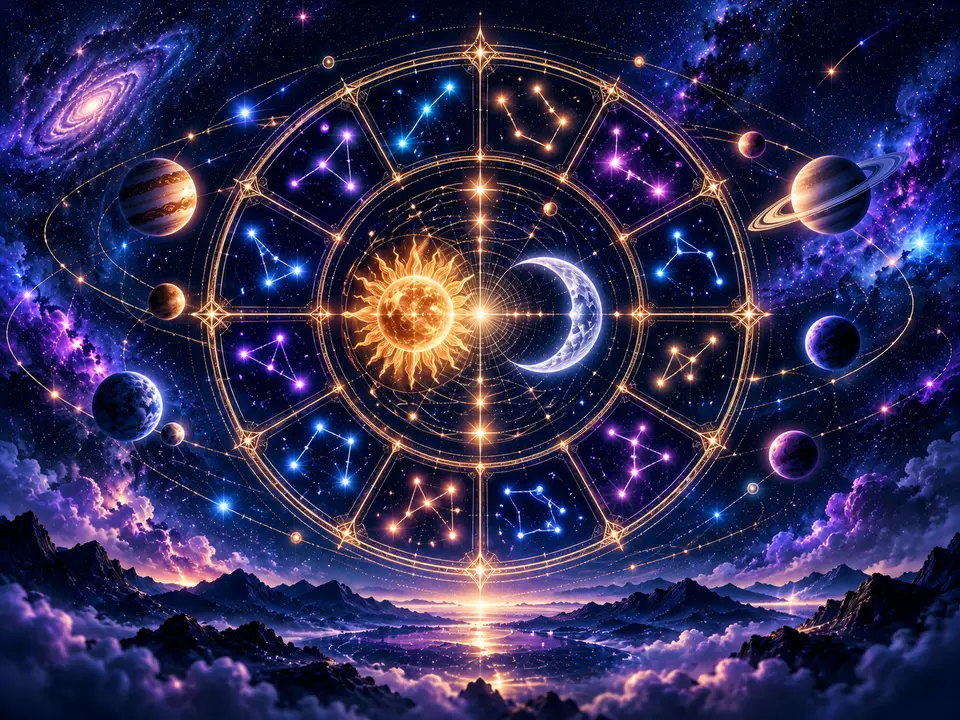
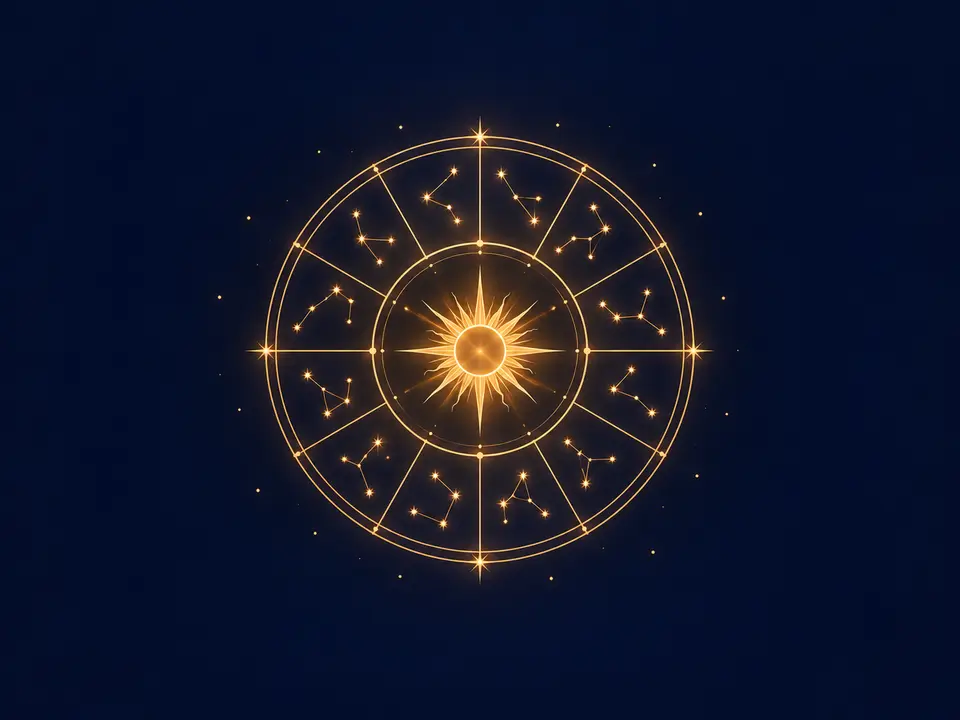
การ์ดศาสตร์: เปลี่ยนเป็นภาพลายเส้นทองชุดเดียวกันทั้ง 8 ศาสตร์
ภาพชุดเดิมรายละเอียดเต็มเฟรมทุกใบ พอวางรวมกันในหน้าแรกจึงดูรก
ชุดใหม่ใช้ลายเส้นทองบนพื้นน้ำเงินเข้มเหมือนกัน ต่างกันแค่แสงสีประจำศาสตร์
แบนเนอร์หน้าศาสตร์บนจอกว้างวางภาพไว้ครึ่งขวาแล้วเฟดขอบ เพื่อไม่ให้ครอปวัตถุหลัก

Claude-Session: https://claude.ai/code/session_012VN3BbfxEtvu5qFQUYZuEB

diff --git a/src/lib/systems/registry.ts b/src/lib/systems/registry.ts
@@ -35,7 +35,7 @@ export const SYSTEMS: SystemInfo[] = [
     href: "/thai-seven",
     accent: "blue",
     art: "cat-thai-seven",
-    artAlt: "เลข 7 เรืองแสงล้อมด้วยดวงดาวหมายเลข 1 ถึง 7",
+    artAlt: "ลายเส้นทองรูปเลข 7 ล้อมด้วยวงโคจรของดาว 7 ดวง บนพื้นน้ำเงินเข้ม",
   },
   {
     id: "zodiac",
@@ -46,7 +46,7 @@ export const SYSTEMS: SystemInfo[] = [
     href: "/zodiac",
     accent: "orange",
     art: "cat-zodiac",
-    artAlt: "วงล้อจักรราศีเรืองแสงที่มีดวงอาทิตย์และพระจันทร์เสี้ยวอยู่ตรงกลาง ล้อมด้วยดาวเคราะห์",
+    artAlt: "ลายเส้นทองรูปวงล้อจักรราศี 12 ช่อง มีดวงอาทิตย์อยู่ตรงกลาง บนพื้นน้ำเงินเข้ม",
   },
   {
     id: "numerology",
@@ -57,7 +57,7 @@ export const SYSTEMS: SystemInfo[] = [
     href: "/numerology",
     accent: "teal",
     art: "cat-numerology",
-    artAlt: "ตัวเลข 1 ถึง 9 ในลูกแก้วเรืองแสงเรียงเป็นวงล้อมเกลียวทองคำ ท่ามกลางเสาวิหารกรีกโบราณ",
+    artAlt: "ลายเส้นทองรูปเกลียวทองคำล้อมด้วยตัวเลข 1 ถึง 9 บนพื้นน้ำเงินเข้ม",
   },
   {
     id: "playing-cards",
@@ -68,7 +68,7 @@ export const SYSTEMS: SystemInfo[] = [
     href: "/playing-cards",
     accent: "magenta",
     art: "cat-playing-cards",
-    artAlt: "ไพ่โพดำ หัวใจ และดอกจิก ลอยอยู่กลางอวกาศ",
+    artAlt: "ลายเส้นทองรูปไพ่ 3 ใบ โพดำ หัวใจ และดอกจิก บนพื้นน้ำเงินเข้ม",
   },
   {
     id: "tarot",
@@ -79,7 +79,7 @@ export const SYSTEMS: SystemInfo[] = [
     href: "/tarot",
     accent: "purple",
     art: "cat-tarot",
-    artAlt: "ไพ่ยิปซีห้าใบรูปดวงอาทิตย์ ดวงจันทร์ และดวงดาว",
+    artAlt: "ลายเส้นทองรูปไพ่ยิปซี 3 ใบ ดวงจันทร์ ดวงอาทิตย์ และดวงดาว บนพื้นน้ำเงินเข้ม",
   },
   {
     id: "oraculum",
@@ -90,7 +90,7 @@ export const SYSTEMS: SystemInfo[] = [
     href: "/oraculum",
     accent: "cyan",
     art: "cat-oraculum",
-    artAlt: "ตำราโบราณเปิดอยู่ มีจุดดาวเรืองแสงห้าแถวลอยขึ้นจากหน้ากระดาษ",
+    artAlt: "ลายเส้นทองรูปตำราเปิด มีจุดดาวห้าแถวลอยขึ้นใต้ช่อมะกอก บนพื้นน้ำเงินเข้ม",
   },
   {
     id: "bazi",
@@ -101,7 +101,7 @@ export const SYSTEMS: SystemInfo[] = [
     href: "/bazi",
     accent: "gold",
     art: "cat-bazi",
-    artAlt: "เสาสี่ต้นใต้วงแปดทิศและสัญลักษณ์ธาตุทั้งห้า",
+    artAlt: "ลายเส้นทองรูปเสาสี่ต้นใต้หยินหยางในกรอบแปดทิศ บนพื้นน้ำเงินเข้ม",
   },
   {
     id: "iching",
@@ -112,6 +112,6 @@ export const SYSTEMS: SystemInfo[] = [
     href: "/iching",
     accent: "jade",
     art: "cat-iching",
-    artAlt: "เหรียญจีนโบราณสามเหรียญลอยเหนือคัมภีร์ไม้ไผ่ ใต้เส้นเรืองแสงหกเส้น ตรีแกรม และหยินหยาง ท่ามกลางภูเขาจีน",
+    artAlt: "ลายเส้นทองรูปเส้นหกเส้นของอี้จิงเหนือเหรียญจีนโบราณสามเหรียญ บนพื้นน้ำเงินเข้ม",
   },
 ];

diff --git a/src/components/site/SystemHero.tsx b/src/components/site/SystemHero.tsx
@@ -11,6 +11,7 @@ interface Props {
 /**
  * แบนเนอร์หัวหน้าของแต่ละศาสตร์: ใช้ภาพและสีประจำศาสตร์ชุดเดียวกับการ์ดในหน้าแรก
  * ภาพเป็นโทนมืดทั้งหมด จึงใช้แผ่นไล่สีเข้มและตัวอักษรสีขาวได้ทั้งสองธีม
+ * ภาพลายเส้นทองมีพื้นน้ำเงินเรียบ จอกว้างจึงวางภาพไว้ครึ่งขวาแล้วเฟดขอบซ้าย แทนการขยายเต็มแถบจนครอปวัตถุหลัก
  */
 export function SystemHero({ id, children }: Props) {
   const s = SYSTEMS.find((x) => x.id === id)!;
@@ -18,17 +19,17 @@ export function SystemHero({ id, children }: Props) {
   return (
     <section className="space-y-4">
       <div
-        className="relative isolate overflow-hidden rounded-2xl border"
+        className="relative isolate overflow-hidden rounded-2xl border bg-[#030c2a]"
         style={{ borderColor: `color-mix(in srgb, ${neon} 50%, var(--border))`, boxShadow: `0 16px 44px -20px ${neon}` }}
       >
         <ArtImage
           name={s.art}
           alt=""
           priority
-          sizes="(min-width: 896px) 864px, 100vw"
-          className="absolute inset-0 -z-10 h-full w-full object-cover"
+          sizes="(min-width: 896px) 520px, (min-width: 640px) 60vw, 100vw"
+          className="absolute inset-0 -z-10 h-full w-full object-cover sm:left-auto sm:w-3/5 sm:[mask-image:linear-gradient(to_right,transparent,black_35%)]"
         />
-        <div aria-hidden className="absolute inset-0 -z-10 bg-gradient-to-t from-[#050817] via-[#050817]/70 to-[#050817]/10" />
+        <div aria-hidden className="absolute inset-0 -z-10 bg-gradient-to-t from-[#050817] via-[#050817]/70 to-[#050817]/10 sm:bg-gradient-to-r sm:from-[#050817]/80 sm:via-transparent sm:to-transparent" />
         <div className="flex min-h-48 flex-col justify-end gap-2 p-5 pt-20 sm:min-h-64 sm:p-7">
           <span
             className="w-fit rounded-full border px-3 py-0.5 text-xs font-semibold text-white backdrop-blur-sm"

diff --git a/docs/design/image-assets.md b/docs/design/image-assets.md
@@ -50,62 +50,49 @@ Create a vertical 4:5 cinematic hero illustration for a modern astrology website
 Style: Cosmic Neon digital illustration, deep midnight navy and indigo environment, controlled neon purple and electric blue illumination, subtle magenta highlights, celestial dust, elegant astronomical geometry, sophisticated mystical atmosphere, high-quality editorial artwork, clean focal hierarchy, refined lighting, polished digital painting, visually cohesive with a modern premium astrology platform.
 ```
 
-### IMG-10: เลขศาสตร์ (4:3)
-```
-Create a 4:3 Cosmic Neon illustration for "Numerology – the meaning of numbers". Glowing numbers 1 to 9 float in a graceful circle in deep space like constellations, each number made of fine starlight and connected by delicate golden geometric lines that form a sacred-geometry pattern (Flower of Life and a nine-pointed star). At the center, a luminous golden spiral based on the golden ratio radiates soft light. Faint ancient Greek columns and a scroll with geometric diagrams fade into the nebula below, hinting at Pythagoras. Deep navy and indigo dominant, with controlled neon purple, electric blue and teal light, and restrained starlight-gold accents. Keep the composition centered with dark space at the top and bottom so it can be cropped into a wide horizontal banner. Elegant, mysterious, premium editorial digital painting. Only the digits 1–9 may appear; no words, no letters, no logos, no watermarks.
+### สไตล์การ์ดศาสตร์: Gold Line Celestial (ใช้ตั้งแต่ ต.ค. 2569)
 
-Style: Cosmic Neon digital illustration, deep midnight navy and indigo environment, controlled neon purple and electric blue illumination, subtle magenta highlights, celestial dust, elegant astronomical geometry, sophisticated mystical atmosphere, high-quality editorial artwork, clean focal hierarchy, refined lighting, polished digital painting, visually cohesive with a modern premium astrology platform.
-```
+ภาพการ์ดชุดแรกมีรายละเอียดเต็มเฟรมทุกภาพ พอวางรวมกันในหน้าแรกจึงดูรก ชุดปัจจุบันจึงใช้ลายเส้นทองบนพื้นน้ำเงินเข้มเหมือนกันทุกภาพ วัตถุหลักชิ้นเดียวไม่เกิน 40% ของภาพ และต่างกันแค่แสงเรืองจาง ๆ ด้านหลังที่เป็นสีประจำศาสตร์ ภาพชุดเดิมยังเก็บไว้นอก repo ถ้าจะย้อนกลับ ให้รันสคริปต์กับไฟล์ต้นฉบับเดิม
 
-### IMG-09: อี้จิง (4:3)
+### IMG-02: เลข 7 ตัว (4:3)
 ```
-Create a 4:3 Cosmic Neon illustration for "I Ching – the Chinese Book of Changes". Three ancient bronze Chinese coins with square holes float and spin in mid-air above an open bamboo-slip scroll, leaving trails of light. Above them, six glowing horizontal lines (some solid, some broken in the middle) stack upward like a luminous hexagram made of starlight, surrounded by a faint circle of the eight trigrams and a softly glowing yin-yang at the center of the sky. Misty jade-green mountains and drifting clouds below in a classical Chinese ink-painting mood. Deep navy and indigo dominant, with controlled neon jade-green and electric blue light, subtle purple, and restrained antique-gold highlights on the coins. Keep the composition centered with dark space at top and bottom so it can be cropped into a wide banner. Elegant, mysterious, premium editorial digital painting. No text, no letters, no Chinese characters, no numbers, no logos, no watermarks.
-
-Style: Cosmic Neon digital illustration, deep midnight navy and indigo environment, controlled neon purple and electric blue illumination, subtle magenta highlights, celestial dust, elegant astronomical geometry, sophisticated mystical atmosphere, high-quality editorial artwork, clean focal hierarchy, refined lighting, polished digital painting, visually cohesive with a modern premium astrology platform.
+Minimalist luxury line-art illustration, 4:3. A large elegant numeral "7" drawn only with thin glowing gold lines, encircled by seven small gold stars evenly spaced on a fine circular orbit line, centered on a flat deep midnight-navy background (#0B1230) with a very subtle soft vignette and a few tiny gold star dots. The subject fills no more than 40% of the frame, generous empty space around it. Only gold linework on navy, plus a faint electric-blue glow (#38BDF8) behind the subject. Clean, calm, premium, cohesive icon-like composition, like a luxury book cover. No other text or numbers, no watermark, no extra objects, no landscape.
 ```
 
 ### IMG-08: 12 ราศี (4:3)
 ```
-Create a 4:3 Cosmic Neon illustration for "Western Astrology – the 12 zodiac signs". A luminous circular zodiac wheel floats in deep space, its twelve segments marked only by small glowing constellation patterns (no glyphs, no letters). Inside the wheel, a softly glowing golden sun and a silver crescent moon sit side by side, connected by fine lines of starlight. Around the wheel, faint planetary orbits with a few small glowing planets. Deep navy and indigo dominant, with controlled neon purple, electric blue and magenta light, and restrained starlight-gold accents. Keep the wheel centered with generous dark space at the top and bottom, because the image will also be cropped into a wide horizontal banner. Elegant, mysterious, premium editorial digital painting. No text, no letters, no zodiac symbols, no numbers, no logos, no watermarks.
-
-Style: Cosmic Neon digital illustration, deep midnight navy and indigo environment, controlled neon purple and electric blue illumination, subtle magenta highlights, celestial dust, elegant astronomical geometry, sophisticated mystical atmosphere, high-quality editorial artwork, clean focal hierarchy, refined lighting, polished digital painting, visually cohesive with a modern premium astrology platform.
+Minimalist luxury line-art illustration, 4:3. A simple zodiac wheel drawn only with thin glowing gold lines: two concentric circles divided into twelve segments, each segment marked by a tiny constellation of dots, with a small radiant sun at the center, centered on a flat deep midnight-navy background (#0B1230) with a very subtle soft vignette and a few tiny gold star dots. The subject fills no more than 40% of the frame, generous empty space around it. Only gold linework on navy, plus a faint warm orange glow (#FB923C) behind the subject. Clean, calm, premium, cohesive icon-like composition, like a luxury book cover. No text, no zodiac glyphs, no letters, no watermark, no extra objects, no landscape.
 ```
 
-### IMG-02: เลข 7 ตัว (4:3)
+### IMG-10: เลขศาสตร์ (4:3)
 ```
-Create a 4:3 Cosmic Neon illustration representing Thai numerology and the traditional seven-number divination system. Show a large luminous number seven surrounded by seven subtle numbered celestial nodes, fine geometric connections, concentric astronomical circles, and a midnight star field. Deep navy background with electric blue and neon purple illumination, restrained magenta accents. Mystical, intelligent, structured, culturally respectful, premium digital artwork. Clear central focal point, balanced composition, no readable Thai text, no logos, no watermarks.
-
-Style: Cosmic Neon digital illustration, deep midnight navy and indigo environment, controlled neon purple and electric blue illumination, subtle magenta highlights, celestial dust, elegant astronomical geometry, sophisticated mystical atmosphere, high-quality editorial artwork, clean focal hierarchy, refined lighting, polished digital painting, visually cohesive with a modern premium astrology platform.
+Minimalist luxury line-art illustration, 4:3. A golden-ratio spiral drawn with thin glowing gold lines at the center, surrounded by the digits 1 to 9 in small elegant gold numerals placed evenly on a fine circle and connected by delicate geometric lines forming a nine-pointed star, centered on a flat deep midnight-navy background (#0B1230) with a very subtle soft vignette and a few tiny gold star dots. The subject fills no more than 40% of the frame, generous empty space around it. Only gold linework on navy, plus a faint teal glow (#2DD4BF) behind the subject. Clean, calm, premium, cohesive icon-like composition, like a luxury book cover. Only the digits 1–9, no words, no letters, no watermark, no extra objects, no landscape.
 ```
 
 ### IMG-03: ไพ่ป๊อก (4:3)
 ```
-Create a 4:3 premium Cosmic Neon illustration for standard playing-card divination. Show three elegant playing cards with recognizable traditional spade, heart, and club suit symbols, floating above a deep midnight-blue cosmic surface. Add subtle violet nebulae, electric-blue rim lighting, small stars, and controlled magenta reflections. Keep the card faces recognizable and uncluttered. Modern mystical editorial illustration, polished materials, strong focal hierarchy. No text beyond standard suit symbols, no logos, no watermarks.
-
-Style: Cosmic Neon digital illustration, deep midnight navy and indigo environment, controlled neon purple and electric blue illumination, subtle magenta highlights, celestial dust, elegant astronomical geometry, sophisticated mystical atmosphere, high-quality editorial artwork, clean focal hierarchy, refined lighting, polished digital painting, visually cohesive with a modern premium astrology platform.
+Minimalist luxury line-art illustration, 4:3. A neat fan of three playing cards drawn only with thin glowing gold lines, showing a spade, a heart and a club symbol, one on each card, centered on a flat deep midnight-navy background (#0B1230) with a very subtle soft vignette and a few tiny gold star dots. The subject fills no more than 40% of the frame, generous empty space around it. Only gold linework on navy, plus a faint magenta-pink glow (#EC4899) behind the subject. Clean, calm, premium, cohesive icon-like composition, like a luxury book cover. No text, no letters, no numbers, no watermark, no extra objects, no landscape.
 ```
 
 ### IMG-04: ไพ่ยิปซี (4:3)
 ```
-Create a 4:3 premium Cosmic Neon illustration inspired by the Rider-Waite tarot tradition. Show a small fan of richly illustrated tarot cards featuring recognizable celestial motifs, a radiant sun, a crescent moon, and stars. Use deep navy, indigo, electric blue, neon purple, and restrained magenta. Ornate but legible card borders, luminous atmospheric lighting, sophisticated mystical mood, clean focal hierarchy. Do not imitate a specific copyrighted card image exactly; create original tarot-inspired artwork. No additional text, no logos, no watermarks.
-
-Style: Cosmic Neon digital illustration, deep midnight navy and indigo environment, controlled neon purple and electric blue illumination, subtle magenta highlights, celestial dust, elegant astronomical geometry, sophisticated mystical atmosphere, high-quality editorial artwork, clean focal hierarchy, refined lighting, polished digital painting, visually cohesive with a modern premium astrology platform.
+Minimalist luxury line-art illustration, 4:3. A single fan of three tarot cards drawn only with thin, elegant glowing gold lines (fine engraving-style linework, a small sun on the middle card, a crescent moon and a star on the side cards), centered on a flat deep midnight-navy background (#0B1230) with a very subtle soft vignette and a few tiny gold star dots. The subject fills no more than 40% of the frame, generous empty space around it. Only gold linework on navy, plus a faint purple glow (#A855F7) behind the subject. Clean, calm, premium, cohesive icon-like composition, like a luxury book cover. No text, no letters, no watermark, no extra objects, no landscape.
 ```
 
 ### IMG-05: ตำราพยากรณ์นโปเลียน (4:3)
 ```
-Create a 4:3 Cosmic Neon illustration for "Napoleon's Oraculum", a Western divination book in which a person draws five rows of marks to reveal a symbol. An antique leather-bound book lies open on a midnight-navy cosmic surface. Five horizontal rows of luminous dots (single and paired dots, like geomantic figures) rise from its pages as glowing starlight. Add a faint laurel-wreath motif, a quill, and elegant astronomical engravings around it. Deep navy and indigo with controlled electric-blue and cosmic-cyan light and restrained antique-gold highlights. Mysterious, scholarly, premium editorial digital painting. Clear central focal point. No readable text, no letters, no logos, no watermarks.
-
-Style: Cosmic Neon digital illustration, deep midnight navy and indigo environment, controlled neon purple and electric blue illumination, subtle magenta highlights, celestial dust, elegant astronomical geometry, sophisticated mystical atmosphere, high-quality editorial artwork, clean focal hierarchy, refined lighting, polished digital painting, visually cohesive with a modern premium astrology platform.
+Minimalist luxury line-art illustration, 4:3. An open antique book drawn only with thin glowing gold lines, with five horizontal rows of small gold dots (single and paired dots) rising gently from its pages like starlight, and a delicate laurel wreath outline above, centered on a flat deep midnight-navy background (#0B1230) with a very subtle soft vignette and a few tiny gold star dots. The subject fills no more than 40% of the frame, generous empty space around it. Only gold linework on navy, plus a faint cyan glow (#67E8F9) behind the subject. Clean, calm, premium, cohesive icon-like composition, like a luxury book cover. No text, no letters, no numbers, no watermark, no extra objects, no landscape.
 ```
 
 ### IMG-06: ปาจื้อ (4:3)
 ```
-Create a 4:3 sophisticated illustration representing BaZi, the Chinese Four Pillars of Destiny. Depict a luminous eight-trigram-inspired circular arrangement, four balanced vertical pillars represented by elegant geometric columns, subtle five-element symbolism, and delicate Chinese cloud patterns against a midnight navy cosmic background. Use restrained antique gold, electric blue, and subtle violet light. The mood is analytical, balanced, mystical, and premium. Ensure symbols are deliberate and culturally respectful. Do not generate random Chinese characters or pseudo-text. No logos, no watermarks.
-
-Style: Cosmic Neon digital illustration, deep midnight navy and indigo environment, controlled neon purple and electric blue illumination, subtle magenta highlights, celestial dust, elegant astronomical geometry, sophisticated mystical atmosphere, high-quality editorial artwork, clean focal hierarchy, refined lighting, polished digital painting, visually cohesive with a modern premium astrology platform.
+Minimalist luxury line-art illustration, 4:3. Four slender pillars standing side by side, drawn only with thin glowing gold lines, beneath a small yin-yang symbol inside a fine octagon (eight trigram outline), centered on a flat deep midnight-navy background (#0B1230) with a very subtle soft vignette and a few tiny gold star dots. The subject fills no more than 40% of the frame, generous empty space around it. Only gold linework on navy, plus a faint warm amber-gold glow (#FBBF24) behind the subject. Clean, calm, premium, cohesive icon-like composition, like a luxury book cover. No text, no Chinese characters, no letters, no watermark, no extra objects, no landscape.
 ```
 
+### IMG-09: อี้จิง (4:3)
+```
+Minimalist luxury line-art illustration, 4:3. Six horizontal lines stacked as an I Ching hexagram (some solid, some broken in the middle) drawn with thin glowing gold lines, with three round ancient coins with square holes below them, also in gold line-art, centered on a flat deep midnight-navy background (#0B1230) with a very subtle soft vignette and a few tiny gold star dots. The subject fills no more than 40% of the frame, generous empty space around it. Only gold linework on navy, plus a faint jade-green glow (#34D399) behind the subject. Clean, calm, premium, cohesive icon-like composition, like a luxury book cover. No text, no Chinese characters, no letters, no watermark, no extra objects, no landscape.
+```
 ### IMG-07: ดวงวันนี้ตามวันเกิด (3:4 แนวตั้ง)
 ```
 Create a 3:4 vertical Cosmic Neon illustration representing the Thai astrological week: eight luminous celestial orbs (the sun, the moon, and six planets) arranged in a graceful circular orbit around a softly glowing center, connected by fine golden constellation lines, above a calm midnight horizon with subtle Thai-inspired ornamental light patterns. Deep navy and indigo with neon purple, electric blue, and restrained starlight-gold accents. Elegant, calm, mature, premium editorial artwork. Strong centered composition with clear separation from the background. No text, no numbers, no zodiac glyphs, no logos, no watermarks.
